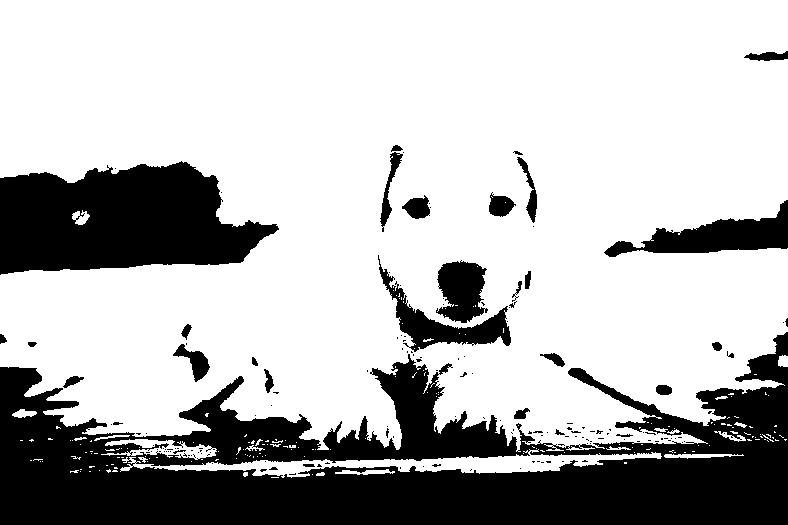
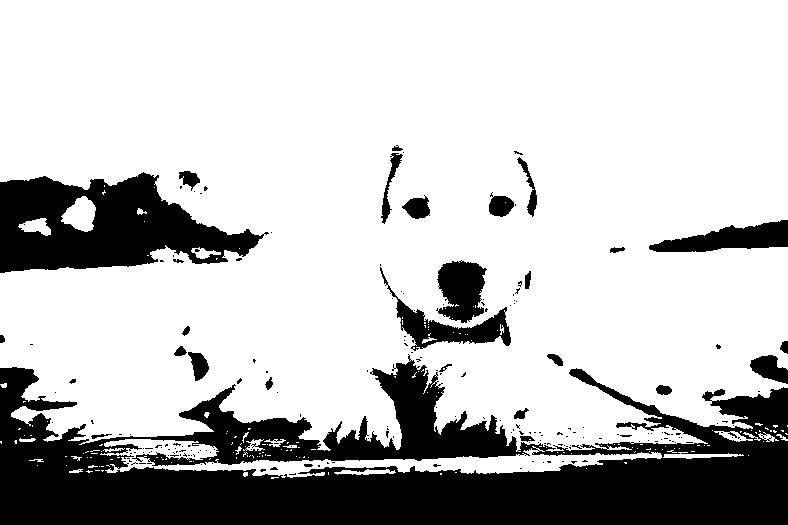
Fix rgb vs bgr especially for grayscale conversion

diff --git a/NAPS2.Images/Storage/UnsafeImageOps.cs b/NAPS2.Images/Storage/UnsafeImageOps.cs
@@ -5,6 +5,8 @@ namespace NAPS2.Images.Storage;
 // TODO: Make internal?
 // TODO: Improve preconditions to guard against misuse causing access violations
 // TODO: Verify test coverage
+// TODO: If we add a new IMemoryImage implementation, we need to figure out RGB vs BGR (bgr is the Bitmap default)
+// TODO: A lot of the r/g/b naming is off, should be b/g/r (I only corrected it where colors are treated differently)
 public static class UnsafeImageOps
 {
     public static unsafe void ChangeBrightness(IMemoryImage bitmap, float brightnessAdjusted)
@@ -309,9 +311,9 @@ public static class UnsafeImageOps
                         if (x + k < w)
                         {
                             byte* pixel = row + (x + k) * bytesPerPixel;
-                            byte r = *pixel;
+                            byte b = *pixel;
                             byte g = *(pixel + 1);
-                            byte b = *(pixel + 2);
+                            byte r = *(pixel + 2);
                             // Use standard values for grayscale conversion to weight the RGB values
                             int luma = r * 299 + g * 587 + b * 114;
                             if (luma >= thresholdAdjusted)
@@ -422,9 +424,9 @@ public static class UnsafeImageOps
                     for (int x = 0; x < w; x++)
                     {
                         byte* pixel = row + x * bytesPerPixel;
-                        byte r = *pixel;
+                        byte b = *pixel;
                         byte g = *(pixel + 1);
-                        byte b = *(pixel + 2);
+                        byte r = *(pixel + 2);
                         // Use standard values for grayscale conversion to weight the RGB values
                         int luma = r * 299 + g * 587 + b * 114;
                         outRow[x] = luma < thresholdAdjusted;

diff --git a/NAPS2.Sdk/Scan/Internal/Twain/TwainMemoryBufferReader.cs b/NAPS2.Sdk/Scan/Internal/Twain/TwainMemoryBufferReader.cs
@@ -100,15 +100,14 @@ public static class TwainMemoryBufferReader
                     {
                         int x = memoryBuffer.XOffset + dx;
                         int y = memoryBuffer.YOffset + dy;
-                        // TODO: This might actually be the other way around
-                        // Colors are provided as BGR, they need to be swapped to RGB
-                        // R
+                        // Colors are provided as RGB, they need to be swapped to BGR
+                        // B
                         *(dstPtr + y * dstBytesPerRow + x * 3) =
                             *(srcPtr + dy * srcBytesPerRow + dx * 3 + 2);
                         // G
                         *(dstPtr + y * dstBytesPerRow + x * 3 + 1) =
                             *(srcPtr + dy * srcBytesPerRow + dx * 3 + 1);
-                        // B
+                        // R
                         *(dstPtr + y * dstBytesPerRow + x * 3 + 2) =
                             *(srcPtr + dy * srcBytesPerRow + dx * 3);
                     }

diff --git a/NAPS2.Sdk/Images/BlankDetector.cs b/NAPS2.Sdk/Images/BlankDetector.cs
@@ -43,9 +43,9 @@ public static class BlankDetector
         {
             for (int y = 0; y < image.Height; y++)
             {
-                int r = bytes[stride * y + x * 3];
+                int b = bytes[stride * y + x * 3];
                 int g = bytes[stride * y + x * 3 + 1];
-                int b = bytes[stride * y + x * 3 + 2];
+                int r = bytes[stride * y + x * 3 + 2];
                 // Use standard values for grayscale conversion to weight the RGB values
                 int luma = r * 299 + g * 587 + b * 114;
                 if (luma < whiteThreshold * 1000)

diff --git a/NAPS2.Images/Storage/ImagePixelFormat.cs b/NAPS2.Images/Storage/ImagePixelFormat.cs
@@ -4,6 +4,6 @@ public enum ImagePixelFormat
 {
     Unsupported,
     BW1,
-    RGB24,
+    RGB24, // This is actually BGR in the binary representation
     ARGB32
 }
